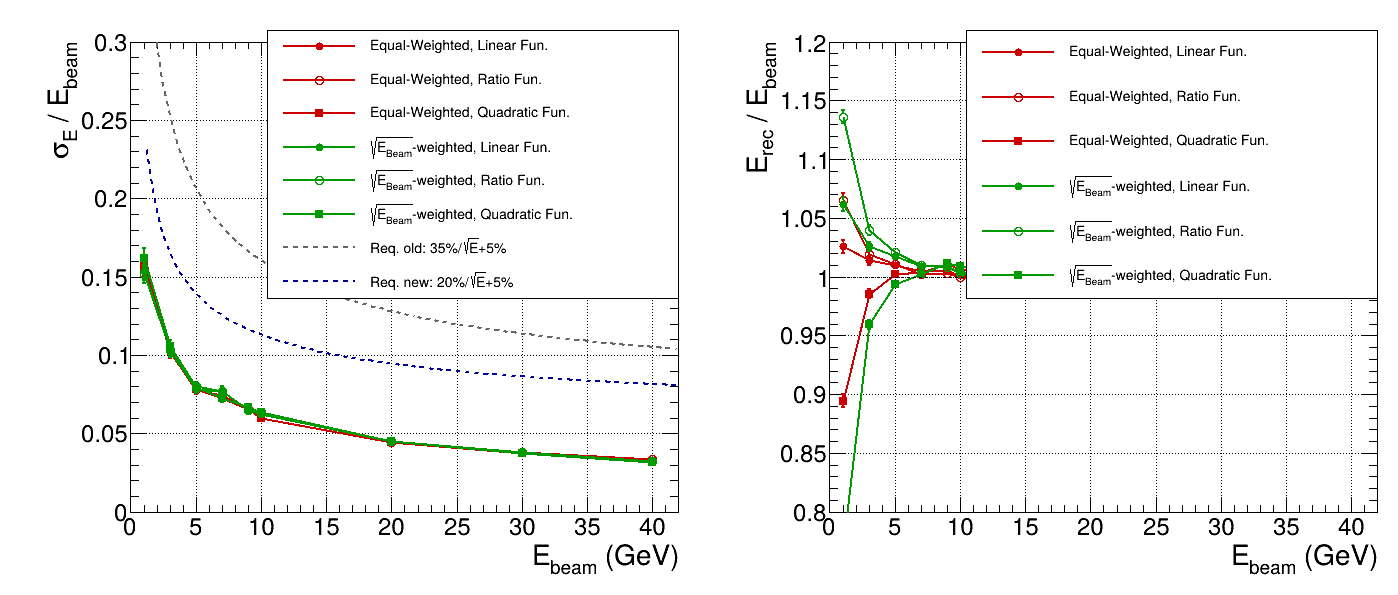
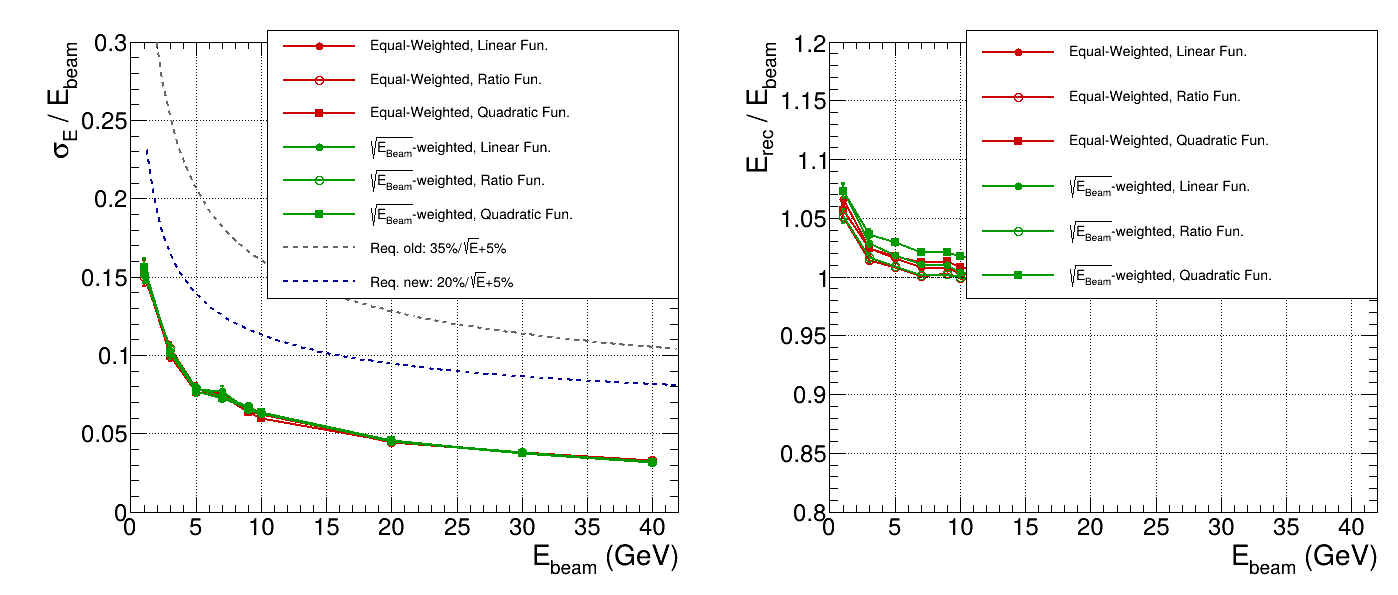
Force regression through origin (p0=0): fix neutron bias; output only the 3 graphs, no slides
Neutron bias fix:
- A free intercept produced a large positive p0 (~15-31 GeV) so low-energy neutrons
  could not reconstruct below p0 -> bias up to 2.6 and inflated resolution. Physically
  the calorimeter response must pass through zero (no deposit => E_rec=0).
- fitRegression now drops the constant term from the basis (ZERO_INTERCEPT), forcing
  p0=0. Verified against a standalone scan of fit configurations: linear p0=0 gives
  bias 0.84-1.07 across 10-300 GeV (was 0.84-2.60) and improves gamma bias too
  (converges tightly to 1.0). Resolution is detector-limited (~0.08-0.12 for neutron,
  only 3-6% of energy sampled): meets the old 50%/sqrt(E)+5% requirement, sits right at
  the new 35% requirement.

Output cleanup (only the plots, no slides):
- Removed all slide generation (slide5-8 PNG/PDF, slide-6 canvas) and the redundant
  all-energy / slide-window processing passes. The script now produces exactly three
  graph PNGs: energy_dump, gamma_resolution_bias, neutron_resolution_bias.
- Analysis archive (TBrowser QA root file) moved from plots/ to qa/ and gitignored.
- plots/ now holds only the three graphs plus the two existing PPTX files.
- Neutron bias y-axis tightened to [0.8,1.3] (p0=0 keeps bias near 1).
- run_all.sh messaging updated.

diff --git a/scripts/zdc_reco_browser.C b/scripts/zdc_reco_browser.C
@@ -289,10 +289,19 @@ vector<double> featureVector(const EventData& e, int method) {
     return {1.0, e.ecal, e.hcal, e.ecal*e.ecal, e.hcal*e.hcal};
 }
 
+// Force the regression through the origin: p0 (the constant feature) is dropped from the
+// basis so E_rec = 0 when no energy is deposited. A free intercept produced a large
+// positive p0 (~15-31 GeV for neutron) that made low-energy beams reconstruct far too
+// high (bias up to 2.6) and inflated the plotted resolution. Physically the calorimeter
+// response must pass through zero, so p0 = 0 is the correct constraint.
+static const bool ZERO_INTERCEPT = true;
+
 bool fitRegression(const vector<Sample>& samples, int method, int weightMode, vector<double>& params) {
     const int k = (method == 0) ? 3 : (method == 1) ? 4 : 5;
-    TMatrixD normal(k, k);
-    TVectorD rhs(k);
+    const int start = ZERO_INTERCEPT ? 1 : 0;   // skip the constant term when forcing p0=0
+    const int kk = k - start;
+    TMatrixD normal(kk, kk);
+    TVectorD rhs(kk);
     int nUsed = 0;
 
     for (const auto& s : samples) {
@@ -301,16 +310,16 @@ bool fitRegression(const vector<Sample>& samples, int method, int weightMode, ve
             if (!std::isfinite(vis) || vis <= 0.0) continue;
             vector<double> x = featureVector(e, method);
             const double w = (weightMode == 1) ? std::sqrt(e.beam) : 1.0;  // exactly as slide 6
-            for (int i = 0; i < k; ++i) {
-                rhs(i) += w * x[i] * e.beam;
-                for (int j = 0; j < k; ++j) normal(i,j) += w * x[i] * x[j];
+            for (int i = 0; i < kk; ++i) {
+                rhs(i) += w * x[i+start] * e.beam;
+                for (int j = 0; j < kk; ++j) normal(i,j) += w * x[i+start] * x[j+start];
             }
             ++nUsed;
         }
     }
 
-    params.assign(k, 0.0);
-    if (nUsed < k + 5) {
+    params.assign(k, 0.0);   // params[0] stays 0 when ZERO_INTERCEPT; applyReco still uses p[0]
+    if (nUsed < kk + 5) {
         printf("[WARN] Not enough events for regression m%d_w%d; used=%d\n", method, weightMode, nUsed);
         return false;
     }
@@ -321,9 +330,9 @@ bool fitRegression(const vector<Sample>& samples, int method, int weightMode, ve
         printf("[WARN] SVD solve failed for regression m%d_w%d\n", method, weightMode);
         return false;
     }
-    for (int i = 0; i < k; ++i) params[i] = sol(i);
+    for (int i = 0; i < kk; ++i) params[i+start] = sol(i);
 
-    printf("[FIT] m%d_w%d params:", method, weightMode);
+    printf("[FIT] m%d_w%d params (p0=%s):", method, weightMode, ZERO_INTERCEPT ? "0 fixed" : "free");
     for (double v : params) printf(" %.6g", v);
     printf("\n");
     return true;
@@ -1019,7 +1028,7 @@ TCanvas* makeCleanResolutionBiasCanvas(const string& particle,
     mgB->Draw("AP");
     mgB->GetXaxis()->SetTitle("E_{beam} (GeV)");
     mgB->GetYaxis()->SetTitle("E_{rec} / E_{beam}");
-    mgB->GetYaxis()->SetRangeUser(0.80, gamma ? 1.20 : 1.50); // match reference slides 7/8
+    mgB->GetYaxis()->SetRangeUser(0.80, gamma ? 1.20 : 1.30); // p0=0 keeps neutron bias near 1
     mgB->GetXaxis()->SetLimits(0.0, xMax);
     mgB->GetXaxis()->SetTitleSize(0.05); mgB->GetYaxis()->SetTitleSize(0.05);
     mgB->GetXaxis()->SetLabelSize(0.043); mgB->GetYaxis()->SetLabelSize(0.043);
@@ -1055,7 +1064,9 @@ void writeAllHistCanvases(const string& particle,
 void zdc_reco_browser(const char* inputDir="data", const char* outDir="plots") {
     setGlobalStyle();
     ensureDir(outDir);
-    const TString outRoot = TString::Format("%s/energy_reconstruction_browser.root", outDir);
+    ensureDir("qa");
+    // Analysis archive lives in qa/, not plots/ -- plots/ holds only the final graph PNGs.
+    const TString outRoot = "qa/energy_reconstruction_browser.root";
 
     vector<Sample> gammaSamples, neutronSamples;
     loadAllSamples(inputDir, "gamma", gammaSamples);
@@ -1090,88 +1101,6 @@ void zdc_reco_browser(const char* inputDir="data", const char* outDir="plots") {
         Emean = s.beamMean; Erms = s.beamRMS; entries = (int)s.events.size(); summary->Fill();
     }
     summary->Write();
-
-    // Use all available data — no energy-window filtering.
-    // Old windows [1,40] GeV gamma / [20,300] GeV neutron excluded MeV gammas and
-    // low-energy neutrons. Including all data shows the full resolution picture.
-    vector<Sample> gammaSlideSamples  = gammaSamples;
-    vector<Sample> neutronSlideSamples = neutronSamples;
-
-    fout->cd();
-    if (!gammaSlideSamples.empty() || !neutronSlideSamples.empty()) {
-        TDirectory* dSlides = fout->mkdir("01_pdf_style_slides");
-        dSlides->cd();
-        TCanvas* c5 = makeEnergyDumpCanvas(gammaSlideSamples, neutronSlideSamples);
-        c5->SaveAs(TString::Format("%s/slide5_energy_dump.png", outDir));
-        c5->SaveAs(TString::Format("%s/slide5_energy_dump.pdf", outDir));
-        fout->cd();
-    }
-
-    auto processParticle = [&](const string& part, const string& dirName, const vector<Sample>& samples,
-                               std::map<string,TGraphErrors*>& outResGraphs,
-                               std::map<string,TGraphErrors*>& outBiasGraphs,
-                               std::map<string, vector<RecoMetrics>>& metricStore) {
-        if (samples.empty()) return;
-        TDirectory* dPart = fout->mkdir(dirName.c_str());
-        dPart->cd();
-        for (int m = 0; m < 3; ++m) {
-            for (int w = 0; w < 2; ++w) {
-                vector<double> params;
-                fitRegression(samples, m, w, params);
-                vector<RecoMetrics> metrics = buildRecoMetrics(samples, params, m, w, part);
-                const string key = Form("%s_m%d_w%d", part.c_str(), m, w);
-                metricStore[Form("m%d_w%d", m, w)] = metrics;
-
-                TGraphErrors* gr = makeGraph(metrics, true,  Form("gReso_dcb_%s_m%d_w%d", part.c_str(), m, w));
-                TGraphErrors* gb = makeGraph(metrics, false, Form("gBias_dcb_%s_m%d_w%d", part.c_str(), m, w));
-                outResGraphs[key] = gr;
-                outBiasGraphs[key] = gb;
-                dPart->cd();
-                gr->Write(); gb->Write();
-                for (auto& met : metrics) {
-                    if (met.hist) met.hist->Write();
-                    if (met.fit)  met.fit->Write();
-                }
-            }
-        }
-        writeAllHistCanvases(part, metricStore);
-        fout->cd();
-    };
-
-    // Full processing: every uploaded raw energy goes into the TBrowser file.
-    std::map<string,TGraphErrors*> resGraphsAll;
-    std::map<string,TGraphErrors*> biasGraphsAll;
-    std::map<string, vector<RecoMetrics>> gammaMetricsAll;
-    std::map<string, vector<RecoMetrics>> neutronMetricsAll;
-    processParticle("gamma",   "02_gamma_all_raw_energies",   gammaSamples,   resGraphsAll, biasGraphsAll, gammaMetricsAll);
-    processParticle("neutron", "03_neutron_all_raw_energies", neutronSamples, resGraphsAll, biasGraphsAll, neutronMetricsAll);
-
-    // Slide processing: fit and summarize only the energy windows shown in the reference PDF.
-    std::map<string,TGraphErrors*> resGraphsSlide;
-    std::map<string,TGraphErrors*> biasGraphsSlide;
-    std::map<string, vector<RecoMetrics>> gammaMetricsSlide;
-    std::map<string, vector<RecoMetrics>> neutronMetricsSlide;
-    processParticle("gamma",   "04_gamma_slide_window_1to40GeV",    gammaSlideSamples,   resGraphsSlide, biasGraphsSlide, gammaMetricsSlide);
-    processParticle("neutron", "05_neutron_slide_window_20to300GeV", neutronSlideSamples, resGraphsSlide, biasGraphsSlide, neutronMetricsSlide);
-
-    fout->cd("01_pdf_style_slides");
-    if (!gammaMetricsSlide.empty() && gammaMetricsSlide.count("m0_w1")) {
-        TCanvas* c6 = makeSlide6Canvas(gammaMetricsSlide["m0_w1"]);
-        if (c6) {
-            c6->SaveAs(TString::Format("%s/slide6_1GeV_gamma_regression.png", outDir));
-            c6->SaveAs(TString::Format("%s/slide6_1GeV_gamma_regression.pdf", outDir));
-        }
-    }
-    if (!gammaSlideSamples.empty()) {
-        TCanvas* c7 = makeResolutionBiasCanvas("gamma", resGraphsSlide, biasGraphsSlide);
-        c7->SaveAs(TString::Format("%s/slide7_gamma_resolution_bias.png", outDir));
-        c7->SaveAs(TString::Format("%s/slide7_gamma_resolution_bias.pdf", outDir));
-    }
-    if (!neutronSlideSamples.empty()) {
-        TCanvas* c8 = makeResolutionBiasCanvas("neutron", resGraphsSlide, biasGraphsSlide);
-        c8->SaveAs(TString::Format("%s/slide8_neutron_resolution_bias.png", outDir));
-        c8->SaveAs(TString::Format("%s/slide8_neutron_resolution_bias.pdf", outDir));
-    }
 
     // ---- Clean physics graphs (no slide decorations) ----
     // Gamma: train regression on [1,40] GeV for stable parameters; evaluate on ALL gamma energies
@@ -1228,8 +1157,6 @@ void zdc_reco_browser(const char* inputDir="data", const char* outDir="plots") {
     fout->Write();
     fout->Close();
 
-    printf("\n[DONE] Wrote ROOT/TBrowser file: %s\n", outRoot.Data());
-    printf("[DONE] Wrote PNG/PDF plots under: %s\n", outDir);
-    printf("[OPEN] root -l %s\n", outRoot.Data());
-    printf("       new TBrowser\n");
+    printf("\n[DONE] Graph PNGs in %s/: energy_dump.png, gamma_resolution_bias.png, neutron_resolution_bias.png\n", outDir);
+    printf("[DONE] Analysis archive (optional, for TBrowser QA): %s\n", outRoot.Data());
 }